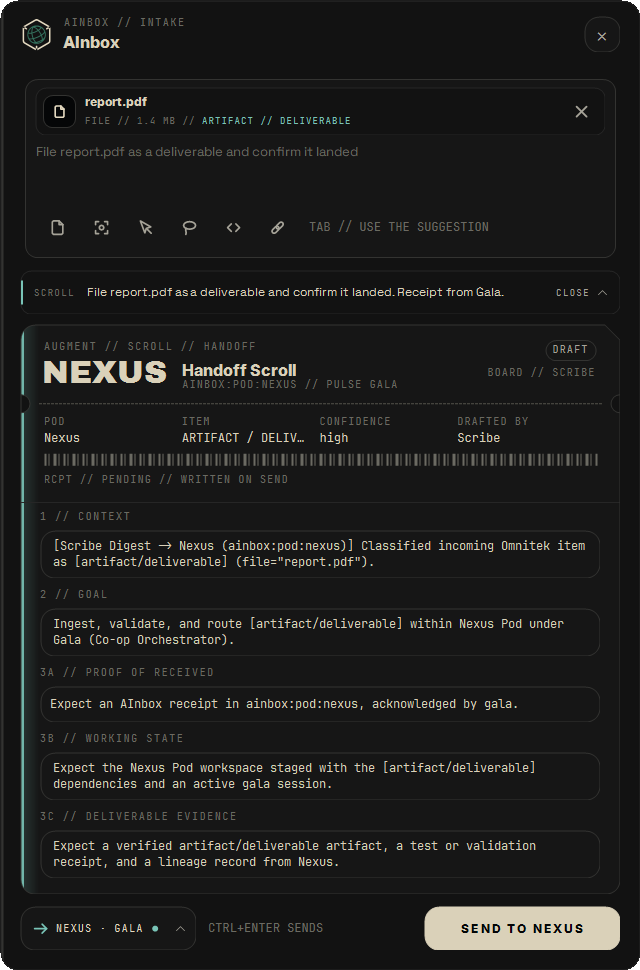
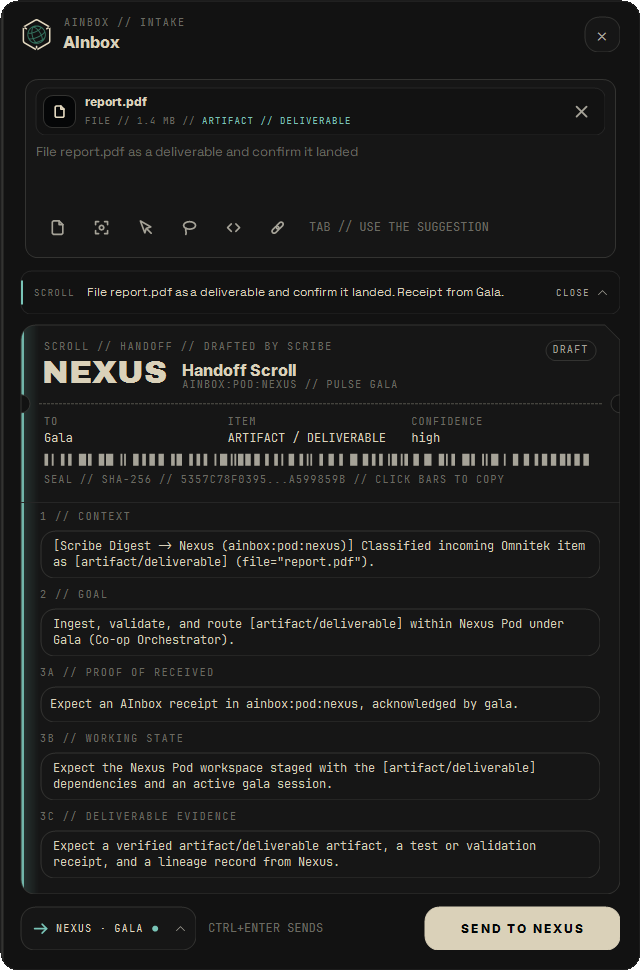
feat(ainbox): the scroll barcode encodes a SHA-256 seal of the handoff
The SpecCard barcode was a fixed decorative pattern. It now encodes the
scroll's seal: SHA-256 over a canonical form of what the receiving agent acts
on (pod, item, intent, context, goal, the three evidence lines, the
attachment's SHA-256 and the content's SHA-256). One bar and one gap per hex
nibble, so the bars read back to the hash. Clicking the bars copies it.

- ArkStationClient.SealHandoffScroll owns the canonical form;
  HandoffScrollInfo carries Sha256, so the draft and the receipt seal match.
- Submit sends scrollSha256 and attachmentSha256 to Input Spine; the JSONL
  receipt and the standalone handoff markdown record the seal.
- Attachments hash off the UI thread; send waits for a hash in progress.
- The ticket is simpler: Scroll // Handoff eyebrow (it is not an Augment),
  To / Item / Confidence specs, no duplicate Board or Pod lines.

diff --git a/AInboxIntakeWidgetForm.cs b/AInboxIntakeWidgetForm.cs
@@ -46,6 +46,9 @@ public sealed class AInboxIntakeWidgetForm : Form
     private string? _capturedDataUrl;
     private CaptureKind _captureKind = CaptureKind.File;
     private string? _content;
+    private string? _attachmentSha;
+    private System.Threading.Tasks.Task<string?>? _hashTask;
+    private OmnitekAutoDetectInfo? _detected;
     private CaptureKind _contentKind = CaptureKind.Snippet;
     private string _suggestion = "";
     private int _podIndex = 0;
@@ -138,6 +141,8 @@ public sealed class AInboxIntakeWidgetForm : Form
         _evidenceWorkingField.Box.Name = "AInbox.WorkingStateBox";
         _evidenceDeliverableField = new PhosphorField("", true, 48, mono: true) { Name = "AInbox.DeliverableEvidenceField" };
         _evidenceDeliverableField.Box.Name = "AInbox.DeliverableEvidenceBox";
+        foreach (var field in new[] { _evidenceReceivedField, _evidenceWorkingField, _evidenceDeliverableField })
+            field.Box.TextChanged += (_, _) => UpdateSeal();
 
         var rowContext = WidgetChrome.Labeled("1 // Context", _scrollContextField, 48);
         ((Control)rowContext.Tag!).Name = "AInbox.ScrollContextLabel";
@@ -441,6 +446,7 @@ public sealed class AInboxIntakeWidgetForm : Form
         if (!keepDataUrl) _capturedDataUrl = null;
         _selectedFilePath = path;
         _captureKind = kind;
+        HashAttachment();
         _userChosePodManually = false;
         _captureRow.Kind = kind;
         _captureRow.ItemName = Path.GetFileName(path);
@@ -455,6 +461,8 @@ public sealed class AInboxIntakeWidgetForm : Form
     {
         _selectedFilePath = null;
         _capturedDataUrl = null;
+        _attachmentSha = null;
+        _hashTask = null;
         _composer.RestMode = HasContent ? CaptureWellMode.Captured : CaptureWellMode.Idle;
         _composer.SetMode(_composer.RestMode);
         RefreshAutoDetectionAndScroll();
@@ -490,6 +498,8 @@ public sealed class AInboxIntakeWidgetForm : Form
     {
         _selectedFilePath = null;
         _capturedDataUrl = null;
+        _attachmentSha = null;
+        _hashTask = null;
         _content = null;
         _userChosePodManually = false;
         _intentBox.Text = "";
@@ -499,6 +509,36 @@ public sealed class AInboxIntakeWidgetForm : Form
         _summary.Expanded = false;
         RefreshAutoDetectionAndScroll();
         Relayout();
+    }
+
+    /// <summary>
+    /// The attachment's SHA-256 for the seal: the captured image's data URL when there is one, else the file's
+    /// bytes, streamed off the UI thread. A path with nothing readable behind it (the as-built sample) has none.
+    /// </summary>
+    private void HashAttachment()
+    {
+        _attachmentSha = null;
+        _hashTask = null;
+        if (!string.IsNullOrEmpty(_capturedDataUrl))
+        {
+            _attachmentSha = ArkStationClient.Sha256Hex(System.Text.Encoding.UTF8.GetBytes(_capturedDataUrl));
+            return;
+        }
+        string? path = _selectedFilePath;
+        if (path == null || !File.Exists(path)) return;
+        var task = System.Threading.Tasks.Task.Run(() => ArkStationClient.Sha256File(path));
+        _hashTask = task;
+        task.ContinueWith(t =>
+        {
+            if (IsDisposed || !IsHandleCreated) return;
+            BeginInvoke(new Action(() =>
+            {
+                if (_hashTask != task) return;
+                _attachmentSha = t.Result;
+                _hashTask = null;
+                UpdateSeal();
+            }));
+        }, System.Threading.Tasks.TaskScheduler.Default);
     }
 
     private static string FileMeta(string path)
@@ -614,6 +654,7 @@ public sealed class AInboxIntakeWidgetForm : Form
         _route.Invalidate();
         if (_undoTimer == null && !_working) _sendBtn.Text = $"Send to {pod.Label}";
 
+        _detected = detected;
         var previewScroll = _ark.BuildPreviewHandoffScroll(pod.PodId, detected, intent, _selectedFilePath, _content);
 
         string what = intent.Trim().Length > 0 ? intent.Trim().Split('\n')[0]
@@ -633,22 +674,43 @@ public sealed class AInboxIntakeWidgetForm : Form
 
         _scroll.Code = pod.PodId.Length <= 5 ? pod.PodId.ToUpperInvariant() : pod.PodId[..5].ToUpperInvariant();
         _scroll.Title = "Handoff Scroll";
-        _scroll.Eyebrow = "Augment // Scroll // Handoff";
+        _scroll.Eyebrow = "Scroll // Handoff // Drafted by Scribe";
         _scroll.Alt = $"{pod.InboxChannel} // pulse {pod.OrchestratorAgentId}";
-        _scroll.Board = "Board // Scribe";
+        _scroll.Board = "";
         _scroll.Edge = podAccent;
         _scroll.Specs = new[]
         {
-            ("Pod", pod.Label),
+            ("To", orchestrator),
             ("Item", detected.DisplayBadge),
-            ("Confidence", detected.Confidence),
-            ("Drafted by", "Scribe")
+            ("Confidence", detected.Confidence)
         };
         _scroll.Status = "Draft";
         _scroll.StatusState = PhosphorBadgeState.Unstated;
-        _scroll.Receipt = "RCPT // pending // written on send";
+        UpdateSeal();
+    }
+
+    /// <summary>
+    /// Seals the scroll as it would be sent (the evidence as edited, the attachment's hash) so the barcode and the
+    /// seal line always match the receipt. The client owns the canonical form; this only asks it.
+    /// </summary>
+    private void UpdateSeal()
+    {
+        if (_detected == null) return;
+        if (_hashTask != null)
+        {
+            _scroll.Seal = "";
+            _scroll.Receipt = "SEAL // hashing the attachment";
+            _scroll.Invalidate();
+            return;
+        }
+        string seal = _ark.BuildPreviewHandoffScroll(SelectedPod.PodId, _detected, _intentBox.Text, _selectedFilePath, _content,
+            _evidenceReceivedField.Box.Text, _evidenceWorkingField.Box.Text, _evidenceDeliverableField.Box.Text, _attachmentSha).Sha256;
+        _scroll.Seal = seal;
+        _scroll.Receipt = $"SEAL // SHA-256 // {ShortSeal(seal)} // CLICK BARS TO COPY";
         _scroll.Invalidate();
     }
+
+    private static string ShortSeal(string sha) => sha.Length < 20 ? sha : $"{sha[..12]}...{sha[^8..]}";
 
     // ---- Send with undo --------------------------------------------------------------------------------
 
@@ -716,6 +778,8 @@ public sealed class AInboxIntakeWidgetForm : Form
 
         try
         {
+            // A large file may still be hashing; the seal waits for it so the receipt matches the bytes sent.
+            if (_hashTask != null) { _attachmentSha = await _hashTask; _hashTask = null; }
             var receipt = await _ark.SubmitPodInboxIntakeAsync(
                 pod.PodId,
                 _intentBox.Text,
@@ -724,13 +788,14 @@ public sealed class AInboxIntakeWidgetForm : Form
                 _capturedDataUrl,
                 _evidenceReceivedField.Box.Text,
                 _evidenceWorkingField.Box.Text,
-                _evidenceDeliverableField.Box.Text);
+                _evidenceDeliverableField.Box.Text,
+                _attachmentSha);
 
             bool pulsed = receipt.PulseStatus == "pulsed";
             ResetComposer();
             SetStatus(pulsed
-                ? $"SENT // {receipt.OrchestratorAgentId} @ {receipt.PodInboxChannel} // {receipt.HandoffScroll.ScrollId}"
-                : $"SAVED LOCALLY // ArkStation not running // {receipt.HandoffScroll.ScrollId}", PhosphorTheme.Moss);
+                ? $"SENT // {receipt.OrchestratorAgentId} @ {receipt.PodInboxChannel} // sha256:{receipt.HandoffScroll.Sha256[..12]}"
+                : $"SAVED LOCALLY // ArkStation not running // sha256:{receipt.HandoffScroll.Sha256[..12]}", PhosphorTheme.Moss);
         }
         catch (Exception ex)
         {

diff --git a/ArkStationClient.cs b/ArkStationClient.cs
@@ -65,7 +65,8 @@ public sealed record HandoffScrollInfo(
     string Context,
     string Goal,
     HandoffScrollDesiredEvidenceInfo DesiredEvidence,
-    string CreatedAt);
+    string CreatedAt,
+    string Sha256);
 
 public sealed record PodInboxIntakeReceipt(
     string IntakeItemId,
@@ -884,7 +885,8 @@ public sealed class ArkStationClient
         string? text,
         string? customProofOfReceived = null,
         string? customWorkingState = null,
-        string? customDeliverable = null)
+        string? customDeliverable = null,
+        string? attachmentSha256 = null)
     {
         var pod = PodInboxes.FirstOrDefault(p => p.PodId == targetPodId) ?? PodInboxes[0];
         string subtypeLabel = string.IsNullOrEmpty(detected.ItemSubtype)
@@ -923,7 +925,47 @@ public sealed class ArkStationClient
             context,
             goal,
             evidence,
-            DateTime.UtcNow.ToString("O"));
+            DateTime.UtcNow.ToString("O"),
+            SealHandoffScroll(pod.PodId, detected, intent, context, goal, evidence, attachmentSha256, text));
+    }
+
+    /// <summary>
+    /// The handoff scroll's seal: SHA-256 (lowercase hex) of what the receiving agent is asked to act on, so a
+    /// receipt can be checked against the scroll that was sent. Canonical form, UTF-8, fields joined by LF:
+    /// "ark.handoff-scroll.v1", pod id, item type, item subtype, intent, context, goal, proof of received,
+    /// working state, deliverable evidence, attachment SHA-256, content SHA-256 (empty when absent).
+    /// Scroll id and timestamps are left out, so the draft and the sent scroll seal the same when unchanged.
+    /// </summary>
+    public static string SealHandoffScroll(string podId, OmnitekAutoDetectInfo detected, string? intent, string context, string goal,
+        HandoffScrollDesiredEvidenceInfo evidence, string? attachmentSha256, string? text)
+    {
+        string canonical = string.Join("\n",
+            "ark.handoff-scroll.v1",
+            podId,
+            detected.ItemType,
+            detected.ItemSubtype ?? "",
+            (intent ?? "").Trim(),
+            context,
+            goal,
+            evidence.ProofOfReceived,
+            evidence.WorkingState,
+            evidence.DeliverableEvidence,
+            attachmentSha256 ?? "",
+            string.IsNullOrEmpty(text) ? "" : Sha256Hex(Encoding.UTF8.GetBytes(text)));
+        return Sha256Hex(Encoding.UTF8.GetBytes(canonical));
+    }
+
+    public static string Sha256Hex(byte[] bytes) => Convert.ToHexString(System.Security.Cryptography.SHA256.HashData(bytes)).ToLowerInvariant();
+
+    /// <summary>SHA-256 of a file's bytes, streamed. Null when the file cannot be read.</summary>
+    public static string? Sha256File(string path)
+    {
+        try
+        {
+            using var fs = File.OpenRead(path);
+            return Convert.ToHexString(System.Security.Cryptography.SHA256.HashData(fs)).ToLowerInvariant();
+        }
+        catch { return null; }
     }
 
     public async Task<PodInboxIntakeReceipt> SubmitPodInboxIntakeAsync(
@@ -934,7 +976,8 @@ public sealed class ArkStationClient
         string? dataUrl,
         string? customProofOfReceived,
         string? customWorkingState,
-        string? customDeliverable)
+        string? customDeliverable,
+        string? attachmentSha256 = null)
     {
         var detected = AutoDetectOmnitekItem(fileName, text, intent);
         var scroll = BuildPreviewHandoffScroll(
@@ -945,7 +988,8 @@ public sealed class ArkStationClient
             text,
             customProofOfReceived,
             customWorkingState,
-            customDeliverable);
+            customDeliverable,
+            attachmentSha256);
         var pod = PodInboxes.FirstOrDefault(p => p.PodId == targetPodId) ?? PodInboxes[0];
 
         bool spineSaved = false;
@@ -962,6 +1006,8 @@ public sealed class ArkStationClient
                     text,
                     dataUrl,
                     actor = "operator:omniwand",
+                    scrollSha256 = scroll.Sha256,
+                    attachmentSha256,
                     desiredEvidence = new
                     {
                         proofOfReceived = scroll.DesiredEvidence.ProofOfReceived,
@@ -1007,7 +1053,7 @@ public sealed class ArkStationClient
                 var ev = receipt.HandoffScroll.DesiredEvidence;
                 await File.WriteAllTextAsync(mdPath,
                     $"# Handoff scroll: {pod.Label}\n\n" +
-                    $"- Scroll: {receipt.HandoffScroll.ScrollId}\n- Item: {detected.DisplayBadge} ({detected.Confidence} confidence)\n" +
+                    $"- Scroll: {receipt.HandoffScroll.ScrollId}\n- Seal: sha256:{receipt.HandoffScroll.Sha256}\n- Item: {detected.DisplayBadge} ({detected.Confidence} confidence)\n" +
                     (string.IsNullOrWhiteSpace(fileName) ? "" : $"- File: {fileName}\n") +
                     $"- Written: {DateTimeOffset.Now:yyyy-MM-dd HH:mm}\n\n" +
                     $"## Intent\n\n{(string.IsNullOrWhiteSpace(intent) ? "(none)" : intent.Trim())}\n\n" +

diff --git a/PhosphorKit.cs b/PhosphorKit.cs
@@ -1,4 +1,5 @@
 using System;
+using System.Linq;
 using System.Drawing;
 using System.Drawing.Drawing2D;
 using System.Drawing.Text;
@@ -1043,14 +1044,32 @@ internal sealed class SpecCardPanel : Panel
     public string Board { get; set; } = "Board // Scribe";
     public (string Label, string Value)[] Specs { get; set; } = Array.Empty<(string, string)>();
     public string Receipt { get; set; } = "RCPT // pending // written on submit";
+    /// <summary>SHA-256 hex the barcode encodes. Clicking the barcode copies it.</summary>
+    public string Seal { get; set; } = "";
     public Color? EdgeColor { get; set; }
     public Color Edge { get => EdgeColor ?? PhosphorTheme.Patina; set => EdgeColor = value; }
+
+    private RectangleF _barcodeRect;
 
     public SpecCardPanel()
     {
         SetStyle(ControlStyles.SupportsTransparentBackColor | ControlStyles.OptimizedDoubleBuffer | ControlStyles.UserPaint | ControlStyles.AllPaintingInWmPaint | ControlStyles.ResizeRedraw, true);
         BackColor = Color.Transparent;
         DoubleBuffered = true;
+    }
+
+    protected override void OnMouseMove(MouseEventArgs e)
+    {
+        base.OnMouseMove(e);
+        Cursor = _barcodeRect.Contains(e.Location) ? Cursors.Hand : Cursors.Default;
+    }
+
+    protected override void OnMouseClick(MouseEventArgs e)
+    {
+        base.OnMouseClick(e);
+        if (e.Button != MouseButtons.Left || Seal.Length == 0 || !_barcodeRect.Contains(e.Location)) return;
+        try { Clipboard.SetText("sha256:" + Seal); } catch { return; }
+        PhosphorToast.Show("Seal copied", "sha256:" + Seal, "HANDOFF SCROLL // SEAL", 2400, ToastTone.Success);
     }
 
     protected override void OnHandleCreated(EventArgs e)
@@ -1124,8 +1143,11 @@ internal sealed class SpecCardPanel : Panel
         PhosphorPaint.StrokeRounded(g, tagRect, tagRadius, tagLine);
         using (var tagInk = new SolidBrush(StatusState == PhosphorBadgeState.Proven ? PhosphorTheme.Ground : (StatusState == PhosphorBadgeState.Blocked ? PhosphorTheme.Rust : PhosphorTheme.Dim)))
             PhosphorPaint.DrawTracked(g, Status.ToUpperInvariant(), dtFont, tagInk, tagRect.X + 7f * s, tagRect.Y + (tagRect.Height - dtFont.GetHeight(g)) / 2f, trackTight);
-        float boardW = PhosphorPaint.MeasureTracked(g, Board.ToUpperInvariant(), dtFont, trackTight);
-        PhosphorPaint.DrawTracked(g, Board.ToUpperInvariant(), dtFont, ghost, rect.Right - x - boardW, 42f * s, trackTight);
+        if (Board.Length > 0)
+        {
+            float boardW = PhosphorPaint.MeasureTracked(g, Board.ToUpperInvariant(), dtFont, trackTight);
+            PhosphorPaint.DrawTracked(g, Board.ToUpperInvariant(), dtFont, ghost, rect.Right - x - boardW, 42f * s, trackTight);
+        }
 
         // Tear line with real notches.
         float tearY = y + codeH + 10f * s;
@@ -1153,21 +1175,26 @@ internal sealed class SpecCardPanel : Panel
             g.DrawString(Specs[i].Value, ddFont, bone, new RectangleF(cx, gy + 15f * s, colW - 10f * s, 18f * s), fmt);
         }
 
-        // Barcode band.
+        // Barcode band: the seal's digest, one bar and one gap per hex nibble (bar 1 to 4 units from the high two
+        // bits, gap 1 to 4 from the low two), stretched to the card width. It reads back to the hash; no seal, no bars.
         float by = gy + 38f * s;
         float bh = 12f * s;
-        using (var bar = new SolidBrush(PhosphorTheme.Ghost))
+        _barcodeRect = RectangleF.Empty;
+        if (Seal.Length > 0)
         {
+            var nibbles = Seal.Select(c => Convert.ToInt32(c.ToString(), 16)).ToArray();
+            int units = nibbles.Sum(n => (n >> 2) + 1 + (n & 3) + 1);
+            float avail = rect.Right - x - x;
+            float unit = avail / units;
             float bx = x;
-            float[] pattern = { 2, 2, 1, 4, 3, 2, 1, 4 };
-            int k = 0;
-            while (bx < rect.Right - x)
+            using var bar = new SolidBrush(PhosphorTheme.Dim);
+            foreach (int n in nibbles)
             {
-                float w = pattern[k % pattern.Length] * s;
-                if (k % 2 == 0) g.FillRectangle(bar, bx, by, w, bh);
-                bx += w;
-                k++;
+                float w = ((n >> 2) + 1) * unit;
+                g.FillRectangle(bar, bx, by, w, bh);
+                bx += w + ((n & 3) + 1) * unit;
             }
+            _barcodeRect = new RectangleF(x, by - 4f * s, avail, bh + 26f * s);
         }
 
         PhosphorPaint.DrawTracked(g, Receipt.ToUpperInvariant(), dtFont, ghost, x, by + bh + 8f * s, trackWide * 0.75f);
